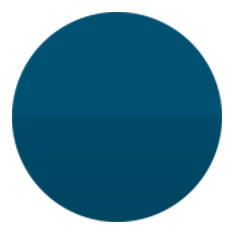
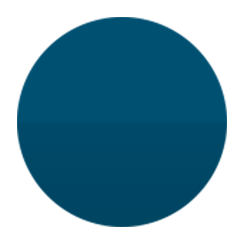
Styles for target value, right column

Changed region(s): [[0.0298, 0.0298, 0.9532, 0.9532]]

diff --git a/source/css/theme_blueCadet.css b/source/css/theme_blueCadet.css
@@ -113,6 +113,30 @@ div#status {
 }
 
 /* Right column */
+div#bubble-wrap {
+  background: url(../../assets/images/theme/circle.png) no-repeat;
+  height: 245px;
+  width: 245px;
+  text-align: center;
+  position: relative;
+  top: -10px;
+}
+#column-right p {
+  width: 150px;
+  margin: 0 auto;
+}
+body.spanish #column-right p {
+  font-size: 14px;
+}
+#column-right p, div#target_value {
+  position: relative;
+  top: 60px;
+}
+div#target_value {
+  font-size: 60px;
+  font-family: "Univers 75 Black";
+  clear: both;
+}
 div#facts {
   background: #262626 url(../../assets/images/theme/underline.png) repeat-x 0 26px;
 }

diff --git a/source/index.html b/source/index.html
@@ -101,9 +101,11 @@
       </div><!--/column-middle-->
 
       <div id="column-right" class="column">
-        <p class="level-1" data-translate="target_1"></p>
-        <p class="level-2 level-3" data-translate="target_2"></p>
-        <div id="target_value"></div>
+        <div id="bubble-wrap">
+          <p class="level-1" data-translate="target_1"></p>
+          <p class="level-2 level-3" data-translate="target_2"></p>
+          <div id="target_value"></div>
+        </div>
         <p id="zero_hint" data-translate="zero_hint"></p>
         <div id="facts">
           <h4 data-translate="funfacts"></h4>

diff --git a/source/css/maya_numbers.css b/source/css/maya_numbers.css
@@ -102,15 +102,6 @@ span#correct,
 span#required {
   font-weight: bold;
 }
-div#target_value {
-  font-size: 80px;
-  font-weight: bold;
-  width: 250px;
-  clear: both;
-}
-#column-right p {
-  width: 200px;
-}
 div#live_sum {
   clear: both;
   float: left;
